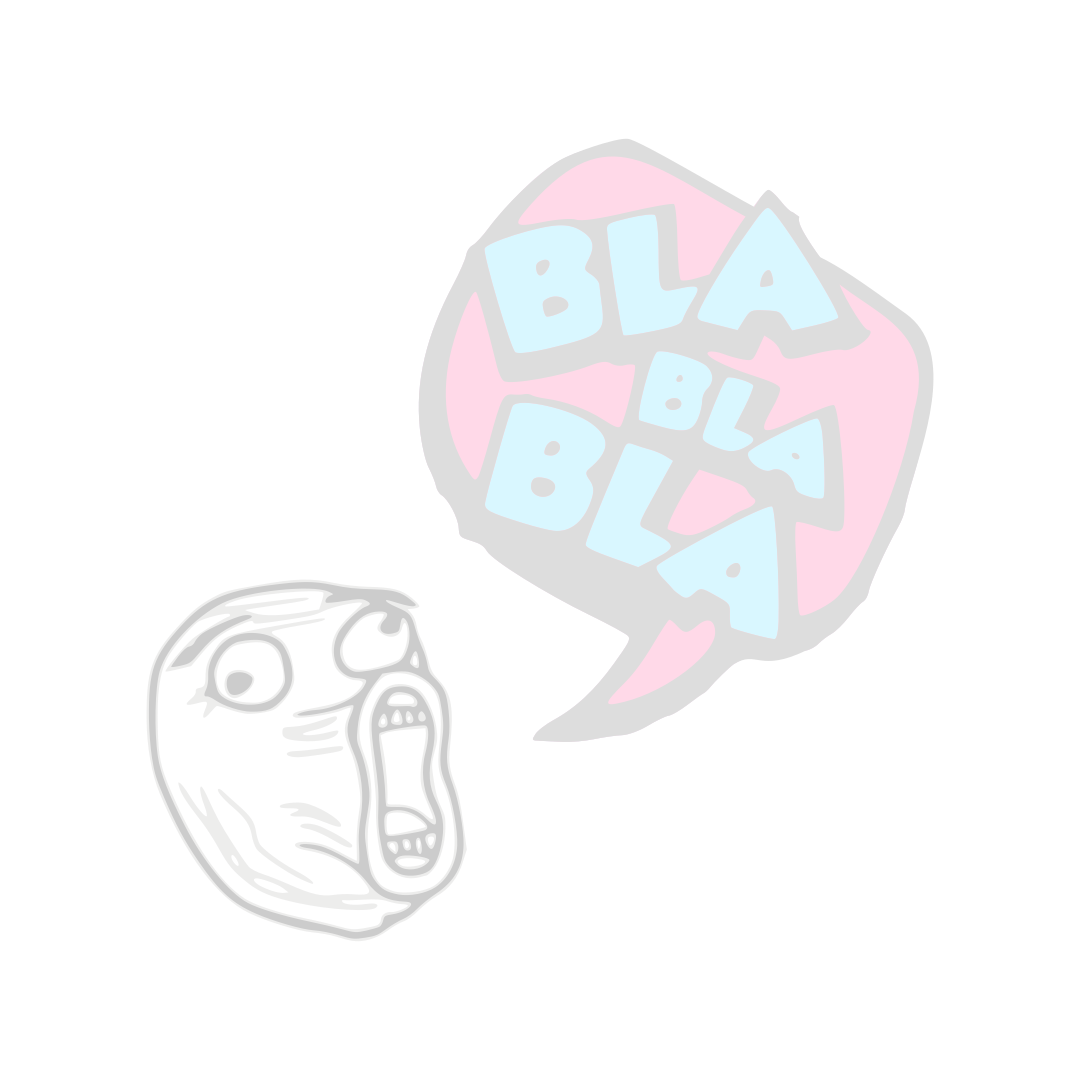
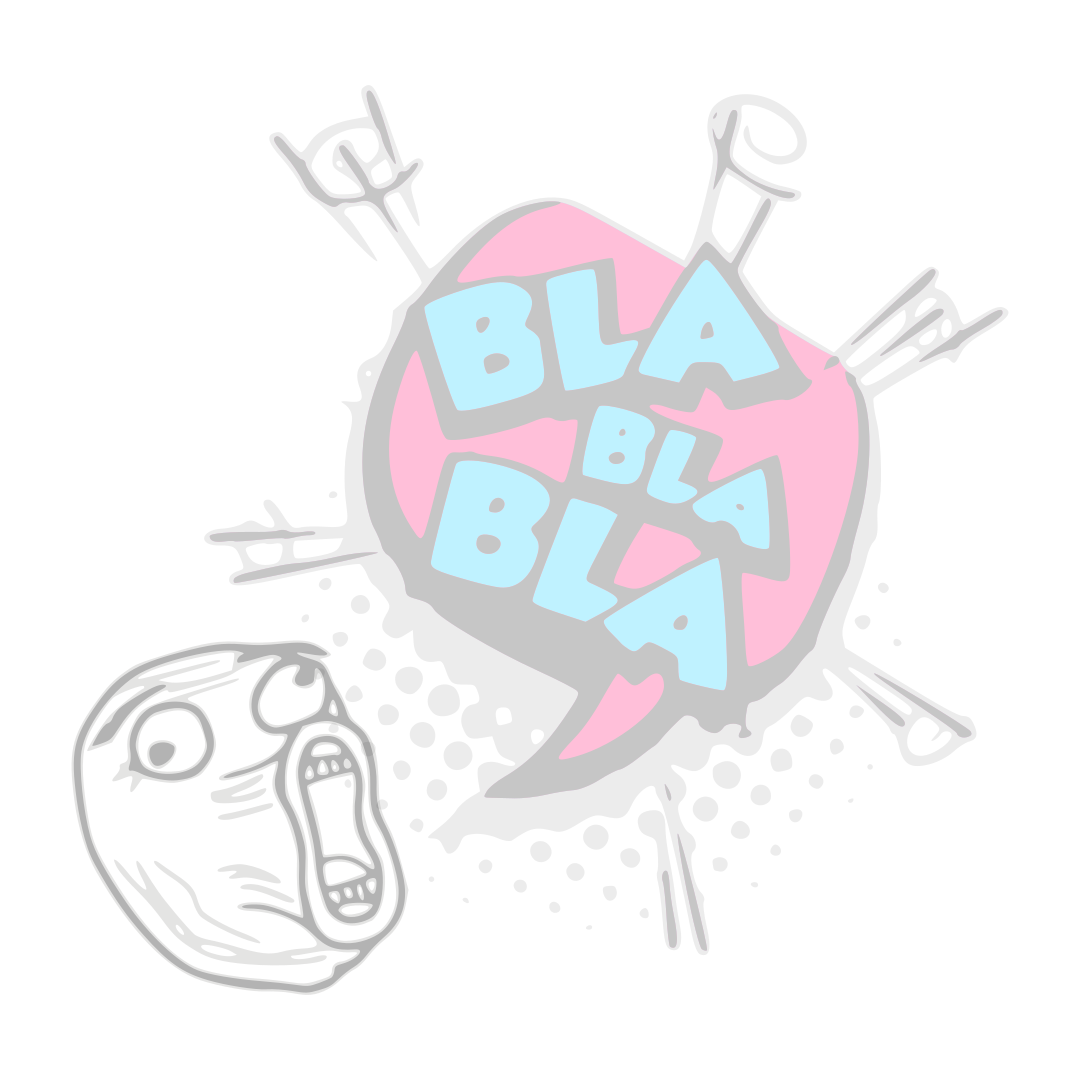
Ajuste no background

diff --git a/Release 1/LeroLero/www/js/class_SocialShare.min.js b/Release 1/LeroLero/www/js/class_SocialShare.min.js
@@ -1,1 +1,1 @@
-"use strict";window.SocialShare=function(n){if(SocialShare._instancia)return SocialShare._instancia;SocialShare._instancia=this;var t=this;t.Site=n;t.Compartilhar=function(n,i,r){r=r?r:null;switch(n){case"whatsapp":t.Whatsapp(i,r);break;case"facebook":t.Facebook(i,r);break;case"instagram":t.Instagram(i,r);break;case"twitter":t.Twitter(i,r);break;default:t.Generico(i,r)}};t.Whatsapp=function(n,i){window.plugins&&window.plugins.socialsharing&&window.plugins.socialsharing.shareViaWhatsApp(n,i,null,function(){console.log("share ok")},function(){setTimeout(function(){t.Site.Comportamento.Alert("Eu acho que você não tem o Whatsapp instalado. Não posso fazer nada.")},100)})};t.Facebook=function(n,i){window.plugins&&window.plugins.socialsharing&&window.plugins.socialsharing.shareViaFacebook(n,i,null,function(){console.log("share ok")},function(){setTimeout(function(){t.Site.Comportamento.Alert("Você tem o Facebook instalado? Acho que não.")},100)})};t.Instagram=function(n,i){window.plugins&&window.plugins.socialsharing&&window.plugins.socialsharing.shareViaInstagram(n,i,function(){console.log("share ok")},function(){setTimeout(function(){t.Site.Comportamento.Alert("Pra compartilhar pro Instagram tem que instalar ele primeiro né?!")},100)})};t.Twitter=function(n,i){window.plugins&&window.plugins.socialsharing&&window.plugins.socialsharing.shareViaTwitter(n,i,null,function(){console.log("share ok")},function(){setTimeout(function(){t.Site.Comportamento.Alert("Você nem tem o Twitter instalado. Não posso ajudar dessa vez.")},100)})};t.Generico=function(n,i){window.plugins&&window.plugins.socialsharing&&window.plugins.socialsharing.share(n,null,i,null,function(){console.log("share ok")},function(){setTimeout(function(){t.Site.Comportamento.Alert("Ops! Alguma coisa deu errado. Não consegui compartilhar.")},100)})}};
+"use strict";window.SocialShare=function(n){if(SocialShare._instancia)return SocialShare._instancia;SocialShare._instancia=this;var t=this;t.Site=n;t.Compartilhar=function(n,i,r){r=r?r:null;switch(n){case"whatsapp":t.Whatsapp(i,r);break;case"facebook":t.Facebook(i,r);break;case"instagram":t.Instagram(i,r);break;case"twitter":t.Twitter(i,r);break;default:t.Generico(i,r)}};t.Whatsapp=function(n,i){window.plugins&&window.plugins.socialsharing&&window.plugins.socialsharing.shareViaWhatsApp(n,i,null,function(){console.log("share ok")},function(){t.Site.Comportamento.Alerta("Eu acho que você não tem o Whatsapp instalado. Não posso fazer nada.")})};t.Facebook=function(n,i){window.plugins&&window.plugins.socialsharing&&window.plugins.socialsharing.shareViaFacebook(n,i,null,function(){console.log("share ok")},function(){t.Site.Comportamento.Alerta("Você tem o Facebook instalado? Acho que não.")})};t.Instagram=function(n,i){window.plugins&&window.plugins.socialsharing&&window.plugins.socialsharing.shareViaInstagram(n,i,function(){console.log("share ok")},function(){t.Site.Comportamento.Alerta("Pra compartilhar pro Instagram tem que instalar ele primeiro né?!")})};t.Twitter=function(n,i){window.plugins&&window.plugins.socialsharing&&window.plugins.socialsharing.shareViaTwitter(n,i,null,function(){console.log("share ok")},function(){t.Site.Comportamento.Alerta("Você nem tem o Twitter instalado. Não posso ajudar dessa vez.")})};t.Generico=function(n,i){window.plugins&&window.plugins.socialsharing&&window.plugins.socialsharing.share(n,null,i,null,function(){console.log("share ok")},function(){t.Site.Comportamento.Alerta("Ops! Alguma coisa deu errado. Não consegui compartilhar.")})}};

diff --git a/Release 1/LeroLero/www/js/class_SocialShare.js b/Release 1/LeroLero/www/js/class_SocialShare.js
@@ -66,7 +66,7 @@ window.SocialShare = function (site) {
             null /* url */,
             function () { console.log('share ok'); },
             function (errormsg) {
-                setTimeout(function () { _this.Site.Comportamento.Alert("Eu acho que você não tem o Whatsapp instalado. Não posso fazer nada."); }, 100);
+                _this.Site.Comportamento.Alerta("Eu acho que você não tem o Whatsapp instalado. Não posso fazer nada.");
             });
     }
 
@@ -85,7 +85,7 @@ window.SocialShare = function (site) {
             null /* url */,
             function () { console.log('share ok'); },
             function (errormsg) {
-                setTimeout(function () { _this.Site.Comportamento.Alert("Você tem o Facebook instalado? Acho que não."); }, 100);
+                _this.Site.Comportamento.Alerta("Você tem o Facebook instalado? Acho que não.");
             });
     }
 
@@ -103,7 +103,7 @@ window.SocialShare = function (site) {
             imagem,
             function () { console.log('share ok'); },
             function (errormsg) {
-                setTimeout(function () { _this.Site.Comportamento.Alert("Pra compartilhar pro Instagram tem que instalar ele primeiro né?!"); }, 100);
+                _this.Site.Comportamento.Alerta("Pra compartilhar pro Instagram tem que instalar ele primeiro né?!");
             });
     }
 
@@ -121,7 +121,7 @@ window.SocialShare = function (site) {
             null /* url */,
             function () { console.log('share ok'); },
             function (errormsg) {
-                setTimeout(function () { _this.Site.Comportamento.Alert("Você nem tem o Twitter instalado. Não posso ajudar dessa vez."); }, 100);
+                _this.Site.Comportamento.Alerta("Você nem tem o Twitter instalado. Não posso ajudar dessa vez.");
             });
     }
 
@@ -140,7 +140,7 @@ window.SocialShare = function (site) {
             null /* url */,
             function () { console.log('share ok'); },
             function (errormsg) {
-                setTimeout(function () { _this.Site.Comportamento.Alert("Ops! Alguma coisa deu errado. Não consegui compartilhar."); }, 100);
+                _this.Site.Comportamento.Alerta("Ops! Alguma coisa deu errado. Não consegui compartilhar.");
             });
     }
 
